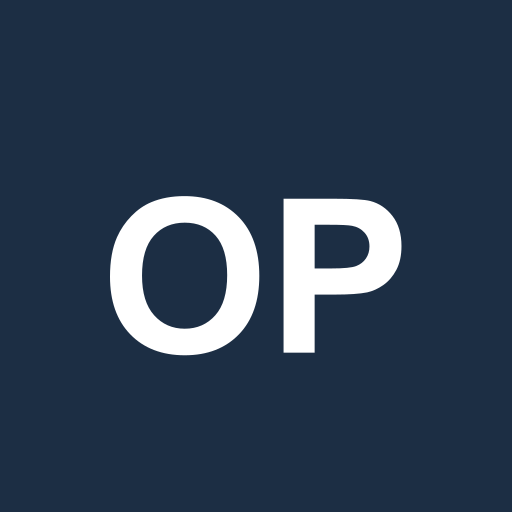
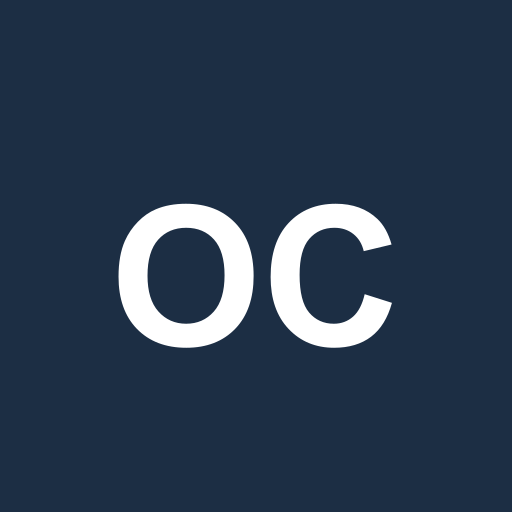
rebrand: renombra el nombre visible del sistema interno a "OpaBiz Connect"
Antes se llamaba "OPABIZ" en login/PWA/emails, muy parecido a "OpaBiz" (la
marca que ve el cliente) y demasiado centrado en "ordenes" para lo que el
founder quiere que cubra (citas, ventas asistidas, servicio de campo). Solo
cambia lo visible al usuario -- rutas (/opabiz/*), archivos (lib/opabiz-*.ts)
y tablas de Supabase siguen igual por dentro, sin riesgo de romper links o FKs.

Changed region(s): [[0.1875, 0.375, 0.8125, 0.7188], [0.4062, 0.5625, 0.4375, 0.625]]

diff --git a/backend/lib/email-constants.ts b/backend/lib/email-constants.ts
@@ -22,8 +22,8 @@ export const FROM_OPABIZ_SUPPORT = `OpaBiz Support <${FROM_SUPPORT}>`
 export const FROM_OPABIZ_ALERTS = `OpaBiz Alerts <${FROM_TRANSACTIONAL}>`
 export const FROM_OPABIZ_CONTACT = `OpaBiz Contact <${FROM_TRANSACTIONAL}>`
 
-// Sistema interno OPABIZ (despacho de empleados) — deliberadamente distinto del
-// display name "OpaBiz" de arriba, que es la marca que ve el cliente. Un
-// empleado no debería confundir este email con algo que le llegaría a un
-// cliente del sitio público.
-export const FROM_OPABIZ_INTERNAL = `OPABIZ <${FROM_TRANSACTIONAL}>`
+// Sistema interno "OpaBiz Connect" (servicio, ventas asistidas y despacho de
+// órdenes a empleados) — display name distinto de "OpaBiz" arriba (la marca
+// que ve el cliente del sitio público) para que un empleado no confunda este
+// email con algo dirigido a un cliente.
+export const FROM_OPABIZ_INTERNAL = `OpaBiz Connect <${FROM_TRANSACTIONAL}>`

diff --git a/backend/lib/opabiz-invite.ts b/backend/lib/opabiz-invite.ts
@@ -3,8 +3,8 @@ import { Resend } from 'resend'
 import crypto from 'crypto'
 import { FROM_OPABIZ_INTERNAL } from './email-constants'
 
-// Invitación por email para que un empleado de OPABIZ (sistema interno) cree su
-// propia contraseña — mismo patrón que la recuperación de contraseña del admin
+// Invitación por email para que un empleado de OpaBiz Connect (sistema interno)
+// cree su propia contraseña — mismo patrón que la recuperación de contraseña del admin
 // (/api/auth/recover), pero TTL más generoso (72h en vez de 15min) porque un
 // empleado no revisa el mail al instante como sí lo hace un admin recuperando
 // acceso urgente.
@@ -47,15 +47,15 @@ export async function sendInviteEmail(opts: { email: string; nombre: string; tok
   await getResend().emails.send({
     from: FROM_OPABIZ_INTERNAL,
     to: opts.email,
-    subject: 'OPABIZ: Creá tu contraseña de acceso',
+    subject: 'OpaBiz Connect: Creá tu contraseña de acceso',
     html: `
       <div style="font-family:sans-serif;max-width:480px;margin:0 auto">
         <div style="background:#1C2E44;padding:20px;text-align:center;border-radius:8px 8px 0 0">
-          <p style="color:#fff;font-size:1.1rem;font-weight:700;margin:0">OPABIZ</p>
+          <p style="color:#fff;font-size:1.1rem;font-weight:700;margin:0">OpaBiz Connect</p>
         </div>
         <div style="background:#f8fafc;padding:28px;border-radius:0 0 8px 8px;border:1px solid #e2e8f0">
           <p style="color:#1e293b;font-size:.95rem">Hola ${opts.nombre},</p>
-          <p style="color:#1e293b;font-size:.95rem">Se creó tu cuenta de empleado en OPABIZ. Hacé clic en el botón para crear tu contraseña y acceder a tus órdenes asignadas.</p>
+          <p style="color:#1e293b;font-size:.95rem">Se creó tu cuenta de empleado en OpaBiz Connect. Hacé clic en el botón para crear tu contraseña y acceder a tus órdenes asignadas.</p>
           <div style="text-align:center;margin:24px 0">
             <a href="${link}" style="background:#2563EB;color:#fff;padding:12px 28px;border-radius:8px;text-decoration:none;font-weight:600;font-size:.95rem">
               Crear mi contraseña →

diff --git a/backend/app/admin/opabiz/page.tsx b/backend/app/admin/opabiz/page.tsx
@@ -135,9 +135,9 @@ export default function OpabizAdminPage() {
             <div style={{ display: 'flex', alignItems: 'center', gap: 10, marginBottom: 4 }}>
               <Link href="/admin" style={{ color: '#94A3B8', fontSize: '.8rem', textDecoration: 'none' }}>← Admin</Link>
               <span style={{ color: '#CBD5E1' }}>/</span>
-              <span style={{ color: '#1C2E44', fontSize: '.8rem', fontWeight: 600 }}>OPABIZ</span>
+              <span style={{ color: '#1C2E44', fontSize: '.8rem', fontWeight: 600 }}>OpaBiz Connect</span>
             </div>
-            <h1 style={{ fontSize: '1.35rem', fontWeight: 800, color: '#1C2E44' }}>OPABIZ — Empleados</h1>
+            <h1 style={{ fontSize: '1.35rem', fontWeight: 800, color: '#1C2E44' }}>OpaBiz Connect — Empleados</h1>
             <p style={{ fontSize: '.8rem', color: '#94A3B8', marginTop: 2 }}>Gestión de empleados internos y su estado de asignación</p>
           </div>
           <button className="btn btn-primary" onClick={() => setShowForm(v => !v)}>

diff --git a/backend/app/admin/page.tsx b/backend/app/admin/page.tsx
@@ -9,14 +9,14 @@ const T = {
   en: {
     title: 'Administration Panel', sub: 'opabiz.com',
     campaigns: 'Campaigns', appointments: 'Appointments',
-    accounting: 'Accounting', security: 'Security', drafts: 'OrderDraft', opabiz: 'OPABIZ', logout: 'Log out',
+    accounting: 'Accounting', security: 'Security', drafts: 'OrderDraft', opabiz: 'OpaBiz Connect', logout: 'Log out',
     totalOrders: 'Total Orders', unpaid: 'Unpaid',
     inReview: 'In Review', revenue: 'Total Revenue',
   },
   es: {
     title: 'Panel de Administración', sub: 'opabiz.com',
     campaigns: 'Campaigns', appointments: 'Citas',
-    accounting: 'Contabilidad', security: 'Seguridad', drafts: 'OrderDraft', opabiz: 'OPABIZ', logout: 'Cerrar sesión',
+    accounting: 'Contabilidad', security: 'Seguridad', drafts: 'OrderDraft', opabiz: 'OpaBiz Connect', logout: 'Cerrar sesión',
     totalOrders: 'Total Órdenes', unpaid: 'Sin Pagar',
     inReview: 'En Revisión', revenue: 'Ingresos Totales',
   },

diff --git a/backend/app/opabiz/invite/[token]/page.tsx b/backend/app/opabiz/invite/[token]/page.tsx
@@ -79,14 +79,14 @@ export default function OpabizInvitePage() {
         .op-msg{font-size:.85rem;color:#374151;text-align:center}
       `}</style>
       <div className="op-wrap">
-        <div className="op-brand">OPA<span>BIZ</span></div>
+        <div className="op-brand">OpaBiz <span>Connect</span></div>
         <div className="op-card">
           {check === 'loading' && <p className="op-msg">Verificando invitación…</p>}
           {check === 'invalid' && <p className="op-msg">Este link ya no es válido o expiró. Pedile al admin que te reenvíe la invitación.</p>}
           {check === 'valid' && (
             <>
               <div className="op-title">Creá tu contraseña</div>
-              <div className="op-sub">{nombre ? `Hola, ${nombre}` : 'Bienvenido a OPABIZ'}</div>
+              <div className="op-sub">{nombre ? `Hola, ${nombre}` : 'Bienvenido a OpaBiz Connect'}</div>
               <form onSubmit={handleSubmit}>
                 <div className="op-field">
                   <label>Contraseña</label>

diff --git a/backend/app/opabiz/layout.tsx b/backend/app/opabiz/layout.tsx
@@ -1,11 +1,11 @@
 import type { Metadata, Viewport } from 'next'
 
 export const metadata: Metadata = {
-  title: 'OPABIZ',
+  title: 'OpaBiz Connect',
   manifest: '/opabiz-manifest.webmanifest',
   appleWebApp: {
     capable: true,
-    title: 'OPABIZ',
+    title: 'OpaBiz Connect',
     statusBarStyle: 'black-translucent',
   },
   icons: {

diff --git a/backend/app/opabiz/dashboard/page.tsx b/backend/app/opabiz/dashboard/page.tsx
@@ -107,7 +107,7 @@ export default function OpabizDashboardPage() {
       `}</style>
 
       <div className="op-header">
-        <div className="op-brand">OPA<span>BIZ</span></div>
+        <div className="op-brand">OpaBiz <span>Connect</span></div>
         <button className="op-logout" onClick={logout}>Salir</button>
       </div>
 

diff --git a/backend/app/opabiz/login/page.tsx b/backend/app/opabiz/login/page.tsx
@@ -52,7 +52,7 @@ export default function OpabizLoginPage() {
         .op-error{color:#ef4444;font-size:.8rem;margin-top:10px;text-align:center}
       `}</style>
       <div className="op-wrap">
-        <div className="op-brand">OPA<span>BIZ</span></div>
+        <div className="op-brand">OpaBiz <span>Connect</span></div>
         <div className="op-card">
           <div className="op-title">Acceso de empleados</div>
           <form onSubmit={handleSubmit}>

diff --git a/LOGICA_DE_NEGOCIO/17_opabiz_integracion.md b/LOGICA_DE_NEGOCIO/17_opabiz_integracion.md
@@ -1,10 +1,12 @@
-# Proceso 17 — OPABIZ: Sistema de Gestión Interna de Órdenes
+# Proceso 17 — OpaBiz Connect: Sistema de Gestión Interna de Órdenes
 
-## ¿Qué es OPABIZ?
+## ¿Qué es OpaBiz Connect?
 
-OPABIZ es la aplicación interna de Florida Business Formation Center para gestionar y asignar órdenes a empleados de campo. Es un sistema **separado** del sitio público (`opabiz.com`, lo que ven los clientes) — comparte el mismo proyecto de Supabase, pero es un panel/app propia para el equipo interno.
+OpaBiz Connect es la aplicación interna de Florida Business Formation Center para gestionar y asignar órdenes a empleados de campo. Es un sistema **separado** del sitio público (`opabiz.com`, lo que ven los clientes) — comparte el mismo proyecto de Supabase, pero es un panel/app propia para el equipo interno.
 
 **Historia:** arrancó en una sesión previa (con otra IA, no documentada en su momento) que dejó creadas las tablas de la base. Se retomó el 2026-07-13 y se construyó el motor de asignación + arranque del panel admin. Ver memoria `project_opabiz_sistema_interno` para el detalle completo de esa sesión.
+
+**Sobre el nombre (2026-07-14):** el nombre visible para el equipo es **"OpaBiz Connect"** (login, PWA, emails de invitación, panel admin). Por dentro, rutas (`/opabiz/*`, `/api/opabiz/*`), archivos (`lib/opabiz-*.ts`) y tablas de Supabase (`ordenes_opabiz`, `EMPLEADOS`, etc.) siguen usando `opabiz` sin cambios — fue una decisión deliberada de bajo riesgo (renombrar solo lo visible, no tocar rutas/tablas). Este documento sigue usando "OPABIZ"/`opabiz` para lo técnico y "OpaBiz Connect" para lo que ve el usuario.
 
 ---
 
@@ -17,7 +19,7 @@ Esto no es opcional, es la causa de un bug real que hubo que corregir el 2026-07
 
 `EMPLEADOS.usuario_id` conecta ambas (FK agregada el 2026-07-13, no existía antes — sin ella el join automático de Supabase no funcionaba).
 
-Antes de tocar cualquier tabla de OPABIZ, verificar con una query a `information_schema.table_constraints` cuál id corresponde — no asumir.
+Antes de tocar cualquier tabla de OpaBiz Connect, verificar con una query a `information_schema.table_constraints` cuál id corresponde — no asumir.
 
 ---
 
@@ -50,23 +52,23 @@ El plan original de esta misma sesión previa proponía un **trigger de PostgreS
 - Se verificó que **ningún trigger de Postgres existe en toda la base** — el patrón real y consistente de todo el proyecto es lógica en código TypeScript (`backend/lib/`), nunca en la base de datos (numeración de facturas, emails automáticos, renovaciones — todo vive en código de aplicación).
 - Por la misma razón, el motor de asignación es una ruta de Next.js (`backend/app/api/opabiz/...`), no una Edge Function — mismo stack que el resto del proyecto, sin agregar una plataforma de despliegue nueva.
 
-**Todavía no existe** la integración real "cliente paga en opabiz.com → se crea la orden en OPABIZ automáticamente" — eso queda pendiente para cuando se decida enganchar el webhook de Stripe (`handleFormationPaid` en `backend/app/api/webhooks/stripe/route.ts`) con la creación de `ordenes_opabiz`. Mientras tanto, las órdenes de OPABIZ se crean manualmente (por SQL/admin) para pruebas.
+**Todavía no existe** la integración real "cliente paga en opabiz.com → se crea la orden en OpaBiz Connect automáticamente" — eso queda pendiente para cuando se decida enganchar el webhook de Stripe (`handleFormationPaid` en `backend/app/api/webhooks/stripe/route.ts`) con la creación de `ordenes_opabiz`. Mientras tanto, las órdenes de OpaBiz Connect se crean manualmente (por SQL/admin) para pruebas.
 
 ---
 
 ## Login del empleado + PWA — Etapa 4, CONSTRUIDA 2026-07-14
 
-Decisión: JWT propio (mismo patrón que `admin_session`/`client_session`), **no Supabase Auth** — el resto del sitio nunca usa `auth.uid()`, toda la autorización vive en código de ruta con la key `service_role`. RLS está activado en las 8 tablas de OPABIZ (heredado, sin políticas) — es consistente con el resto de tablas del proyecto (`Order`, `accounting_income`, etc. también tienen RLS on + 0 políticas), así que no hace falta agregar políticas mientras la auth siga siendo JWT propio + `service_role`.
+Decisión: JWT propio (mismo patrón que `admin_session`/`client_session`), **no Supabase Auth** — el resto del sitio nunca usa `auth.uid()`, toda la autorización vive en código de ruta con la key `service_role`. RLS está activado en las 8 tablas de OpaBiz Connect (heredado, sin políticas) — es consistente con el resto de tablas del proyecto (`Order`, `accounting_income`, etc. también tienen RLS on + 0 políticas), así que no hace falta agregar políticas mientras la auth siga siendo JWT propio + `service_role`.
 
-**Schema real confirmado ese día** (antes solo existía el plan viejo de `CONTEXTO.md`, marcado explícitamente como no confiable): `ordenes_opabiz` tiene `cliente_id` (→ `usuarios.id`, no al `Order` del sitio público — OPABIZ tiene su propio concepto de cliente) `NOT NULL` y `empleado_id` (→ `EMPLEADOS.id`) también `NOT NULL`. Tablas `documentos` (`order_id, tipo_documento, url_archivo`) y `niveles` (tiers de desempeño) sí existen, sin la tabla `clientes` que sugería el plan viejo.
+**Schema real confirmado ese día** (antes solo existía el plan viejo de `CONTEXTO.md`, marcado explícitamente como no confiable): `ordenes_opabiz` tiene `cliente_id` (→ `usuarios.id`, no al `Order` del sitio público — OpaBiz Connect tiene su propio concepto de cliente) `NOT NULL` y `empleado_id` (→ `EMPLEADOS.id`) también `NOT NULL`. Tablas `documentos` (`order_id, tipo_documento, url_archivo`) y `niveles` (tiers de desempeño) sí existen, sin la tabla `clientes` que sugería el plan viejo.
 
 **Sesión (JWT):** `backend/lib/opabiz-session.ts` — `createEmployeeToken`/`verifyEmployeeToken`/`getEmployeeSession` (payload `{usuarioId, empleadosId}`, cookie `opabiz_session`, 8h, mismo `SESSION_SECRET`). `backend/proxy.ts` protege `/opabiz/dashboard/:path*`.
 
-**Invitación:** `POST /api/opabiz/employees` (alta del admin) ahora dispara automáticamente un email de invitación — token en Redis (`lib/opabiz-invite.ts`, `opabiz-invite:{token}`, TTL 72h) con link a `/opabiz/invite/[token]`, donde el empleado crea su contraseña (`GET/POST /api/opabiz/auth/accept-invite`) y queda logueado directo. El panel `/admin/opabiz` muestra columna "Acceso" con botón **"📧 Reenviar invitación"** para empleados sin `password_hash` (`POST /api/opabiz/employees/[usuarioId]/resend-invite`). Branding deliberadamente **"OPABIZ"**, no "OpaBiz" (marca que ve el cliente) — ver `lib/email-constants.ts` → `FROM_OPABIZ_INTERNAL`.
+**Invitación:** `POST /api/opabiz/employees` (alta del admin) ahora dispara automáticamente un email de invitación — token en Redis (`lib/opabiz-invite.ts`, `opabiz-invite:{token}`, TTL 72h) con link a `/opabiz/invite/[token]`, donde el empleado crea su contraseña (`GET/POST /api/opabiz/auth/accept-invite`) y queda logueado directo. El panel `/admin/opabiz` muestra columna "Acceso" con botón **"📧 Reenviar invitación"** para empleados sin `password_hash` (`POST /api/opabiz/employees/[usuarioId]/resend-invite`). Branding deliberadamente **"OpaBiz Connect"**, no "OpaBiz" (marca que ve el cliente) — ver `lib/email-constants.ts` → `FROM_OPABIZ_INTERNAL` (nombre de la constante en código sigue siendo `OPABIZ`, solo cambió su valor de display).
 
 **Login:** `POST /api/opabiz/auth/login` (email+password, rate limit 5/15min como el admin), `POST /api/opabiz/auth/logout`, `GET /api/opabiz/auth/me` (bootstrap de la PWA).
 
-**PWA MVP:** `/opabiz/login`, `/opabiz/dashboard` (lista de órdenes del empleado + toggle "Disponible/No disponible" — **sin este toggle nadie podía llegar nunca a `estado_disponibilidad='disponible'`, así que el motor de asignación era imposible de probar de punta a punta**), `/opabiz/dashboard/[id]` (detalle + Aceptar/Completar/subir documentos). Manifest estático en `public/opabiz-manifest.webmanifest` (Next 16 solo soporta la convención `app/manifest.ts` en la raíz de `app/`, no anidada — se intentó y no generó ruta) + iconos placeholder navy "OP" (`public/opabiz-icon-192.png`/`512.png`, generados con sharp). Sin service worker de caché offline — solo "Add to Home Screen".
+**PWA MVP:** `/opabiz/login`, `/opabiz/dashboard` (lista de órdenes del empleado + toggle "Disponible/No disponible" — **sin este toggle nadie podía llegar nunca a `estado_disponibilidad='disponible'`, así que el motor de asignación era imposible de probar de punta a punta**), `/opabiz/dashboard/[id]` (detalle + Aceptar/Completar/subir documentos). Manifest estático en `public/opabiz-manifest.webmanifest` (Next 16 solo soporta la convención `app/manifest.ts` en la raíz de `app/`, no anidada — se intentó y no generó ruta) + iconos placeholder navy "OC" (`public/opabiz-icon-192.png`/`512.png`, generados con sharp). Sin service worker de caché offline — solo "Add to Home Screen".
 
 **Rutas empleado-scoped** (`backend/app/api/opabiz/me/*`, todas verifican que `ordenes_opabiz.empleado_id` sea el de la sesión): `GET orders`, `GET orders/[id]`, `POST orders/[id]/accept` (asignada→en_progreso), `POST orders/[id]/complete` (en_progreso→completada + `registrarPuntaje(+10)`), `POST orders/[id]/documents` (multipart, bucket público `opabiz-documentos` — migración `supabase_migration_opabiz_documentos_bucket.sql`), `POST disponibilidad`.
 
@@ -82,4 +84,4 @@ Decisión: JWT propio (mismo patrón que `admin_session`/`client_session`), **no
 
 - Memoria de la sesión 2026-07-13: `project_opabiz_sistema_interno`
 - Sistema de emails MBF: `LOGICA_DE_NEGOCIO/02_emails_automaticos.md`
-- Panel admin de OPABIZ: `backend/app/admin/opabiz/page.tsx`
+- Panel admin de OpaBiz Connect: `backend/app/admin/opabiz/page.tsx`

diff --git a/CONTEXTO.md b/CONTEXTO.md
@@ -547,7 +547,7 @@ Ver troubleshooting en `TROUBLESHOOTING/13_responsive_design.md`
 >
 > **ACTUALIZACIÓN (2026-07-13):** se retomó antes de lo previsto. El founder ya había arrancado esto en una sesión previa con otra IA (no documentada acá) — el esquema real de Supabase difiere bastante de lo que describe este archivo (tabla `EMPLEADOS` en mayúsculas no listada abajo, ENUMs con valores distintos, `EMPLEADOS.id` — no `usuarios.id` — es la clave real que usan `empleado_perfil`/`ordenes_opabiz`/`puntajes`/`inactividades`). Se construyó el motor de asignación (Etapa 2) + arranque del panel admin (Etapa 3, alta de empleados en `/admin/opabiz`) + cron de timeout/reasignación. Detalle completo y actualizado en `LOGICA_DE_NEGOCIO/17_opabiz_integracion.md` y memoria `project_opabiz_sistema_interno`. **Este bloque de abajo (checklist original) quedó desactualizado — no confiar en los nombres de tabla/campos sin verificar contra Supabase primero.**
 >
-> **ACTUALIZACIÓN (2026-07-14):** se construyó la Etapa 4 (login de empleado + invitación por email + PWA MVP: dashboard, aceptar/completar orden, subir documentos, toggle de disponibilidad). Sin este toggle nadie podía llegar nunca a `estado_disponibilidad='disponible'`, así que el motor de asignación era imposible de probar de punta a punta hasta ahora. También se confirmó el schema real de `ordenes_opabiz`/`documentos`/`niveles` (`cliente_id` apunta a `usuarios.id`, no al `Order` del sitio público) y se corrigió un bug del cron de reasignación que violaba una constraint `NOT NULL` en silencio. Pendiente correr `supabase_migration_opabiz_documentos_bucket.sql`. Detalle en `LOGICA_DE_NEGOCIO/17_opabiz_integracion.md` y memoria `project_opabiz_sistema_interno`.
+> **ACTUALIZACIÓN (2026-07-14):** se construyó la Etapa 4 (login de empleado + invitación por email + PWA MVP: dashboard, aceptar/completar orden, subir documentos, toggle de disponibilidad). Sin este toggle nadie podía llegar nunca a `estado_disponibilidad='disponible'`, así que el motor de asignación era imposible de probar de punta a punta hasta ahora. También se confirmó el schema real de `ordenes_opabiz`/`documentos`/`niveles` (`cliente_id` apunta a `usuarios.id`, no al `Order` del sitio público) y se corrigió un bug del cron de reasignación que violaba una constraint `NOT NULL` en silencio. Pendiente correr `supabase_migration_opabiz_documentos_bucket.sql`. El nombre visible para el equipo pasó a ser **"OpaBiz Connect"** (rutas/tablas siguen siendo `opabiz` internamente, sin cambios). Detalle en `LOGICA_DE_NEGOCIO/17_opabiz_integracion.md` y memoria `project_opabiz_sistema_interno`.
 
 
 ```diff